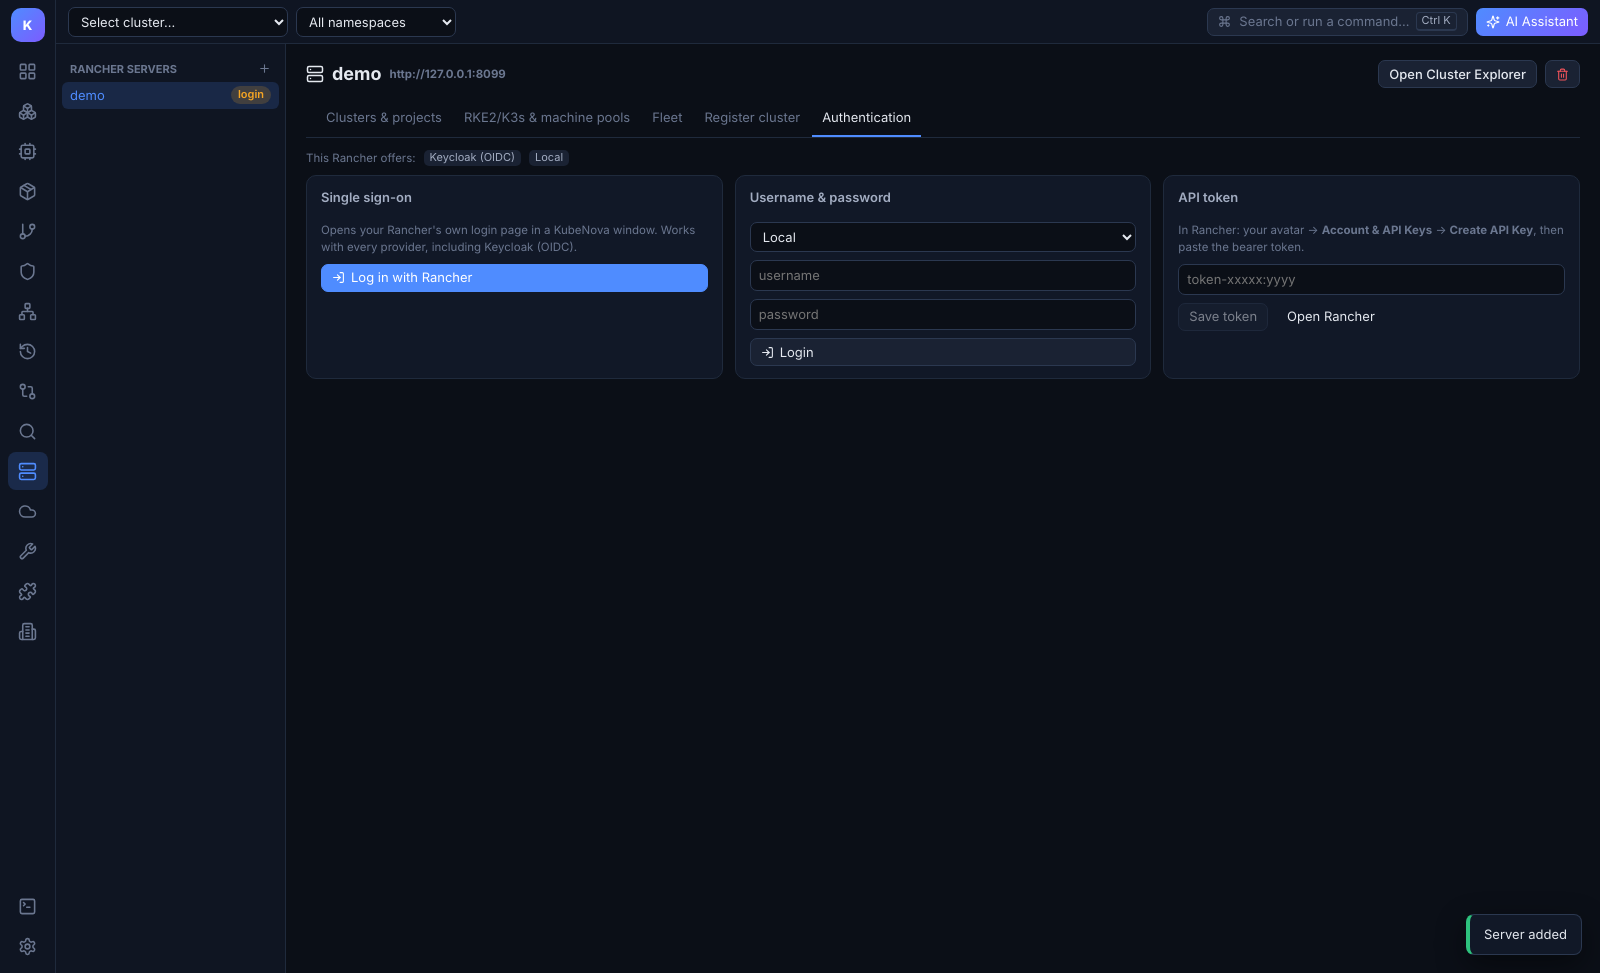
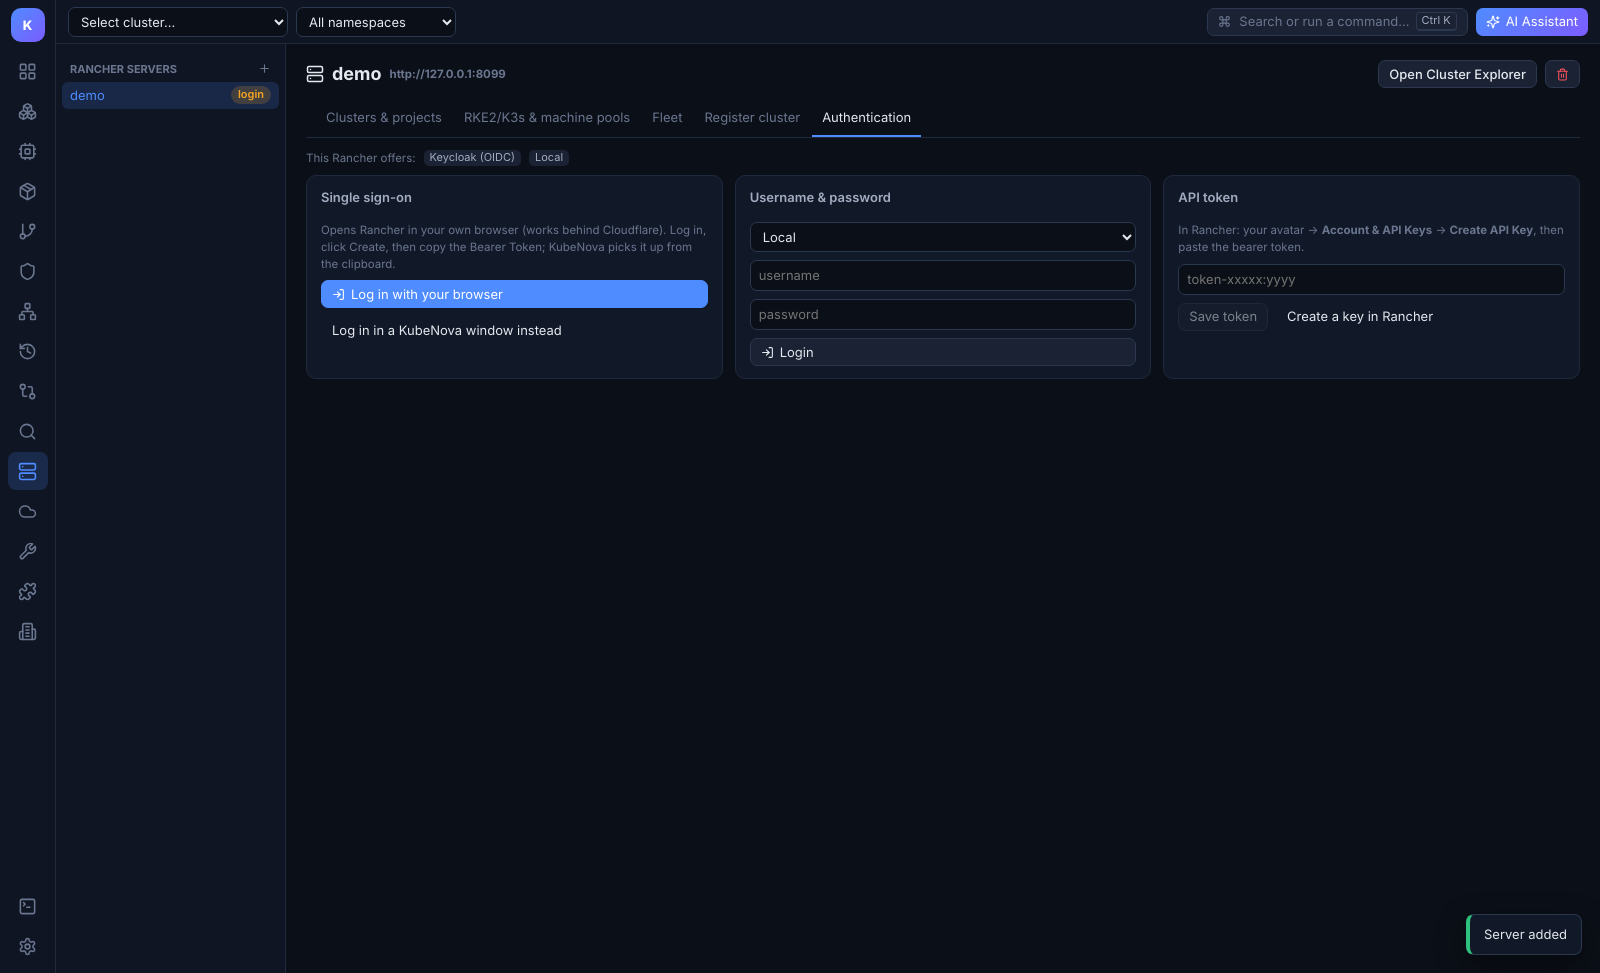
Rancher: log in with the system browser (works behind Cloudflare)
"Log in with your browser" opens Rancher's Create API Key page in the
default browser and picks up the bearer token (or access + secret key)
from the clipboard. SAML-only servers keep the automatic CLI browser
flow; the embedded login window remains as an alternative.

Claude-Session: https://claude.ai/code/session_012yCFj7ZaAmpMWD6h67m6e9

Changed region(s): [[0.1875, 0.2158, 0.4688, 0.3392], [0.8125, 0.3083, 0.875, 0.3392]]

diff --git a/frontend/src/views/Rancher.tsx b/frontend/src/views/Rancher.tsx
@@ -1,4 +1,4 @@
-import { useEffect, useState } from "react";
+import { useEffect, useRef, useState } from "react";
 import { Download, LogIn, Plus, RefreshCw, Server, SquareTerminal, Trash2 } from "lucide-react";
 import { api, openExternal } from "../api";
 import { useStore } from "../store";
@@ -68,10 +68,14 @@ function Login({ sv, onDone }: { sv: any; onDone: () => void }) {
   const pw = (providers.data || []).filter((p: any) => p.login === "password");
   const sso = (providers.data || []).filter((p: any) => p.login !== "password");
   const hasSaml = sso.some((p: any) => p.login === "browser");
+  const samlOnly = hasSaml && sso.every((p: any) => p.login === "browser");
+  const base = sv.url.replace(/\/$/, "");
   const [f, setF] = useState({ provider: "localProvider", username: "", password: "" });
   const [token, setToken] = useState("");
   const [status, setStatus] = useState("");
   const [busy, setBusy] = useState(false);
+  const stop = useRef(false);
+  useEffect(() => () => { stop.current = true; }, []);
   useEffect(() => { if (pw.length && !pw.some((p: any) => p.type === f.provider)) setF((x) => ({ ...x, provider: pw[0].type })); }, [providers.data]);
 
   const saveToken = async (t: string) => {
@@ -91,15 +95,47 @@ function Login({ sv, onDone }: { sv: any; onDone: () => void }) {
     } finally { setBusy(false); }
   };
 
-  // Rancher's browser token flow (SAML providers only), used in browser mode.
+  // Your own browser + a Rancher API key: works with every provider, and with
+  // Cloudflare or other bot checks in front of Rancher. Rancher can't hand an
+  // OIDC login back to an app, so the user creates a key and copies it;
+  // KubeNova picks it up from the clipboard.
+  const keyLogin = async () => {
+    openExternal(`${base}/dashboard/account/create-key`);
+    const read = window.kubenova?.rancherClipboard;
+    if (!read) { setStatus("After creating the key in your browser, paste its bearer token under API token."); return; }
+    stop.current = false;
+    setBusy(true);
+    setStatus("In your browser: log in, click Create, then click the copy button next to the Bearer Token. KubeNova picks it up automatically.");
+    const seen = new Set([await read()]);
+    let access = "";
+    const deadline = Date.now() + 15 * 60 * 1000;
+    while (!stop.current && Date.now() < deadline) {
+      await new Promise((res) => setTimeout(res, 1000));
+      const t = await read();
+      if (!t || seen.has(t)) continue;
+      seen.add(t);
+      let full = t.includes(":") ? t : "";
+      if (!full && t.startsWith("token-")) { access = t; setStatus("Got the access key. Now copy the secret key (or the bearer token)."); continue; }
+      if (!full && access) full = `${access}:${t}`;
+      if (!full) continue;
+      setStatus("Checking token…");
+      if (await saveToken(full)) { setBusy(false); setStatus(""); return; }
+      setStatus("Rancher rejected that token. Copy the Bearer Token again.");
+    }
+    setBusy(false);
+    if (!stop.current) setStatus("Stopped waiting. Paste the bearer token under API token.");
+  };
+
+  // Rancher's own browser token flow; fully automatic but SAML providers only.
   const browserLogin = async () => {
     const r = await act(() => api.post(`/rancher/servers/${sv.id}/sso`));
     if (!r) return;
     openExternal(r.url);
+    stop.current = false;
     setBusy(true);
     setStatus("Waiting for you to finish logging in in the browser…");
     const deadline = Date.now() + 15 * 60 * 1000;
-    while (Date.now() < deadline) {
+    while (!stop.current && Date.now() < deadline) {
       await new Promise((res) => setTimeout(res, 3000));
       try {
         const p = await api.get(`/rancher/servers/${sv.id}/sso/${r.requestId}`);
@@ -107,7 +143,7 @@ function Login({ sv, onDone }: { sv: any; onDone: () => void }) {
       } catch (e: any) { setBusy(false); setStatus(`Login failed: ${e.message}`); return; }
     }
     setBusy(false);
-    setStatus("Timed out. If your Rancher uses OIDC, GitHub or Azure AD, use an API token instead.");
+    if (!stop.current) setStatus("Timed out. If your Rancher uses OIDC, GitHub or Azure AD, use “Log in with your browser” without SAML, or an API token.");
   };
 
   return (
@@ -116,13 +152,13 @@ function Login({ sv, onDone }: { sv: any; onDone: () => void }) {
       {providers.data && <div className="row wrap small"><span className="muted">This Rancher offers:</span>{providers.data.map((p: any) => <span key={p.type} className="chip">{providerLabel[p.type] || p.name || p.type}</span>)}</div>}
       <div className="grid g3">
         <div className="card col"><h3>Single sign-on</h3>
-          {window.kubenova?.rancherLogin ? <>
-            <div className="muted small">Opens your Rancher's own login page in a KubeNova window. Works with every provider{sso.length ? `, including ${sso.map((p: any) => providerLabel[p.type] || p.type).join(", ")}` : ""}.</div>
-            <button className="btn primary" disabled={busy} onClick={windowLogin}><LogIn size={13} />Log in with Rancher</button>
-          </> : <>
-            <div className="muted small">{hasSaml ? "Opens your browser (SAML providers: Okta, ADFS, Ping, Keycloak SAML, Shibboleth)." : "In the web version, browser sign-in only works with SAML providers. Use an API token, or the desktop app's Rancher login window."}</div>
-            <button className="btn primary" disabled={busy || !hasSaml} onClick={browserLogin}><LogIn size={13} />Log in with SSO</button>
-          </>}
+          <div className="muted small">{samlOnly
+            ? "Opens your browser; log in there and KubeNova is logged in automatically."
+            : "Opens Rancher in your own browser (works behind Cloudflare). Log in, click Create, then copy the Bearer Token; KubeNova picks it up from the clipboard."}</div>
+          <button className="btn primary" disabled={busy} onClick={samlOnly ? browserLogin : keyLogin}><LogIn size={13} />Log in with your browser</button>
+          {hasSaml && !samlOnly && <button className="btn" disabled={busy} onClick={browserLogin}>SAML login (automatic)</button>}
+          {window.kubenova?.rancherLogin && <button className="btn ghost" disabled={busy} onClick={windowLogin}>Log in in a KubeNova window instead</button>}
+          {busy && <button className="btn ghost sm" onClick={() => { stop.current = true; setBusy(false); setStatus(""); }}>Stop waiting</button>}
           {status && <div className="small">{status}</div>}
         </div>
         <div className="card col"><h3>Username & password</h3>
@@ -137,7 +173,7 @@ function Login({ sv, onDone }: { sv: any; onDone: () => void }) {
           <div className="muted small">In Rancher: your avatar → <b>Account & API Keys</b> → <b>Create API Key</b>, then paste the bearer token.</div>
           <input type="password" placeholder="token-xxxxx:yyyy" value={token} onChange={(e) => setToken(e.target.value)} />
           <div className="row"><button className="btn" disabled={!token} onClick={() => saveToken(token)}>Save token</button>
-            <button className="btn ghost" onClick={() => openExternal(sv.url.replace(/\/$/, "") + "/dashboard/account")}>Open Rancher</button></div>
+            <button className="btn ghost" onClick={() => openExternal(`${base}/dashboard/account/create-key`)}>Create a key in Rancher</button></div>
         </div>
       </div>
     </div>

diff --git a/frontend/electron/main.ts b/frontend/electron/main.ts
@@ -1,6 +1,6 @@
 // Electron main process: launches the Go backend as a sidecar, passes its
 // URL/token to the renderer and provides a few native integrations.
-import { app, BrowserWindow, ipcMain, shell, dialog, Menu, safeStorage, session } from "electron";
+import { app, BrowserWindow, ipcMain, shell, dialog, Menu, safeStorage, session, clipboard } from "electron";
 import { spawn, ChildProcess } from "node:child_process";
 import path from "node:path";
 import fs from "node:fs";
@@ -86,6 +86,12 @@ ipcMain.handle("backend:info", async () => {
 });
 ipcMain.handle("shell:open", (_e, url: string) => {
   if (/^https?:\/\//.test(url)) return shell.openExternal(url);
+});
+// Used while the user creates a Rancher API key in their browser. Only text
+// shaped like a Rancher token, access key or secret key is passed on.
+ipcMain.handle("rancher:clipboard", () => {
+  const t = clipboard.readText().trim();
+  return /^token-[a-z0-9]+(:[a-z0-9]+)?$/i.test(t) || /^[a-z0-9]{40,64}$/i.test(t) ? t : "";
 });
 ipcMain.handle("dialog:open", async (_e, opts: { directory?: boolean; filters?: { name: string; extensions: string[] }[] }) => {
   const r = await dialog.showOpenDialog({ properties: [opts?.directory ? "openDirectory" : "openFile", "multiSelections"], filters: opts?.filters });

diff --git a/frontend/electron/preload.ts b/frontend/electron/preload.ts
@@ -7,5 +7,6 @@ contextBridge.exposeInMainWorld("kubenova", {
   encrypt: (s: string) => ipcRenderer.invoke("secure:encrypt", s),
   decrypt: (s: string) => ipcRenderer.invoke("secure:decrypt", s),
   rancherLogin: (opts: { url: string; insecure?: boolean }) => ipcRenderer.invoke("rancher:login", opts),
+  rancherClipboard: () => ipcRenderer.invoke("rancher:clipboard"),
   platform: process.platform,
 });

diff --git a/frontend/src/api.ts b/frontend/src/api.ts
@@ -8,6 +8,7 @@ declare global {
       encrypt: (s: string) => Promise<string>;
       decrypt: (s: string) => Promise<string>;
       rancherLogin?: (opts: { url: string; insecure?: boolean }) => Promise<{ token?: string; cancelled?: boolean }>;
+      rancherClipboard?: () => Promise<string>;
       platform: string;
     };
   }

diff --git a/docs/rancher.md b/docs/rancher.md
@@ -41,13 +41,15 @@ The server now shows a yellow **login** badge. The **Authentication** tab shows 
 |---|---|
 | **Username & password** | You log in to Rancher with a local, Active Directory, OpenLDAP or FreeIPA account. Pick the provider from the drop-down. |
 | **API token** | You created a token in Rancher (see "Before you start"). |
-| **Single sign-on** | Your Rancher uses Azure AD, Okta, Keycloak (OIDC or SAML), GitHub, Google, Ping, ADFS or any other provider. Click **Log in with Rancher**: KubeNova opens Rancher's own login page in a KubeNova window. Log in as usual; the window closes on its own and you're logged in. |
+| **Single sign-on** | Your Rancher uses Keycloak, Okta, Azure AD, GitHub, Google, SAML, OIDC or any other provider. Click **Log in with your browser**: Rancher's *Create API Key* page opens in your normal browser, so Cloudflare and other "verify you are human" checks work. Log in, click **Create**, then click the copy button next to **Bearer Token**. KubeNova picks the token up from the clipboard by itself (copying the access key and then the secret key works too). If your Rancher only uses SAML, the browser login is fully automatic and no key is needed. |
 
 ![Rancher login options](images/rancher/04-login.png)
 
 After a successful login, the badge turns green (**auth**).
 
-> **Why a KubeNova window and not my browser?** Rancher's "log in from a CLI through the browser" feature only works with SAML providers. With OIDC (Keycloak OIDC, Okta OIDC, Azure AD, GitHub, Google…) the login works in the browser, but the browser never hands the token back to the app. So KubeNova shows the Rancher login page itself and picks up the session as soon as you're logged in. Your identity provider's own cookies are kept, so the next login is usually a single click.
+> **Why do I create an API key?** Rancher can hand a browser login back to an app only for SAML providers. With OIDC (Keycloak OIDC, Okta OIDC, GitHub, Google…) you can log in in the browser, but Rancher never passes the session to the app. An API key is Rancher's supported way for tools to log in. In Rancher you can give it an expiry date, and you can delete it any time under **Account & API Keys**.
+>
+> **Log in in a KubeNova window instead** opens Rancher's login page inside KubeNova and needs no key. It does not work when Cloudflare, or another bot check, blocks embedded browsers.
 
 ## Step 4: Import all kubeconfigs
 
@@ -116,4 +118,5 @@ The data dir is `~/.config/KubeNova` on Linux, `~/Library/Application Support/Ku
 | `401 Unauthorized` when listing clusters | The token expired or was revoked. Log in again. |
 | A cluster shows *unreachable* after import | The cluster itself is down or disconnected from Rancher (check its state in Rancher). |
 | "Waiting for browser login…" never finishes | You're on an old version, or running KubeNova in a plain browser (not the desktop app) with an OIDC provider. Use **Log in with Rancher** in the desktop app, or paste an API token. |
-| The login window shows an identity-provider error about "embedded browsers" | Use the **API token** option instead. |
+| The KubeNova login window shows a Cloudflare "verify you are human" loop, or an "embedded browsers" error | Use **Log in with your browser**. |
+| KubeNova doesn't pick up the copied key | Copy the **Bearer Token** (not only the access key), or paste it under **API token**. KubeNova watches the clipboard for 15 minutes after you click the button. |
